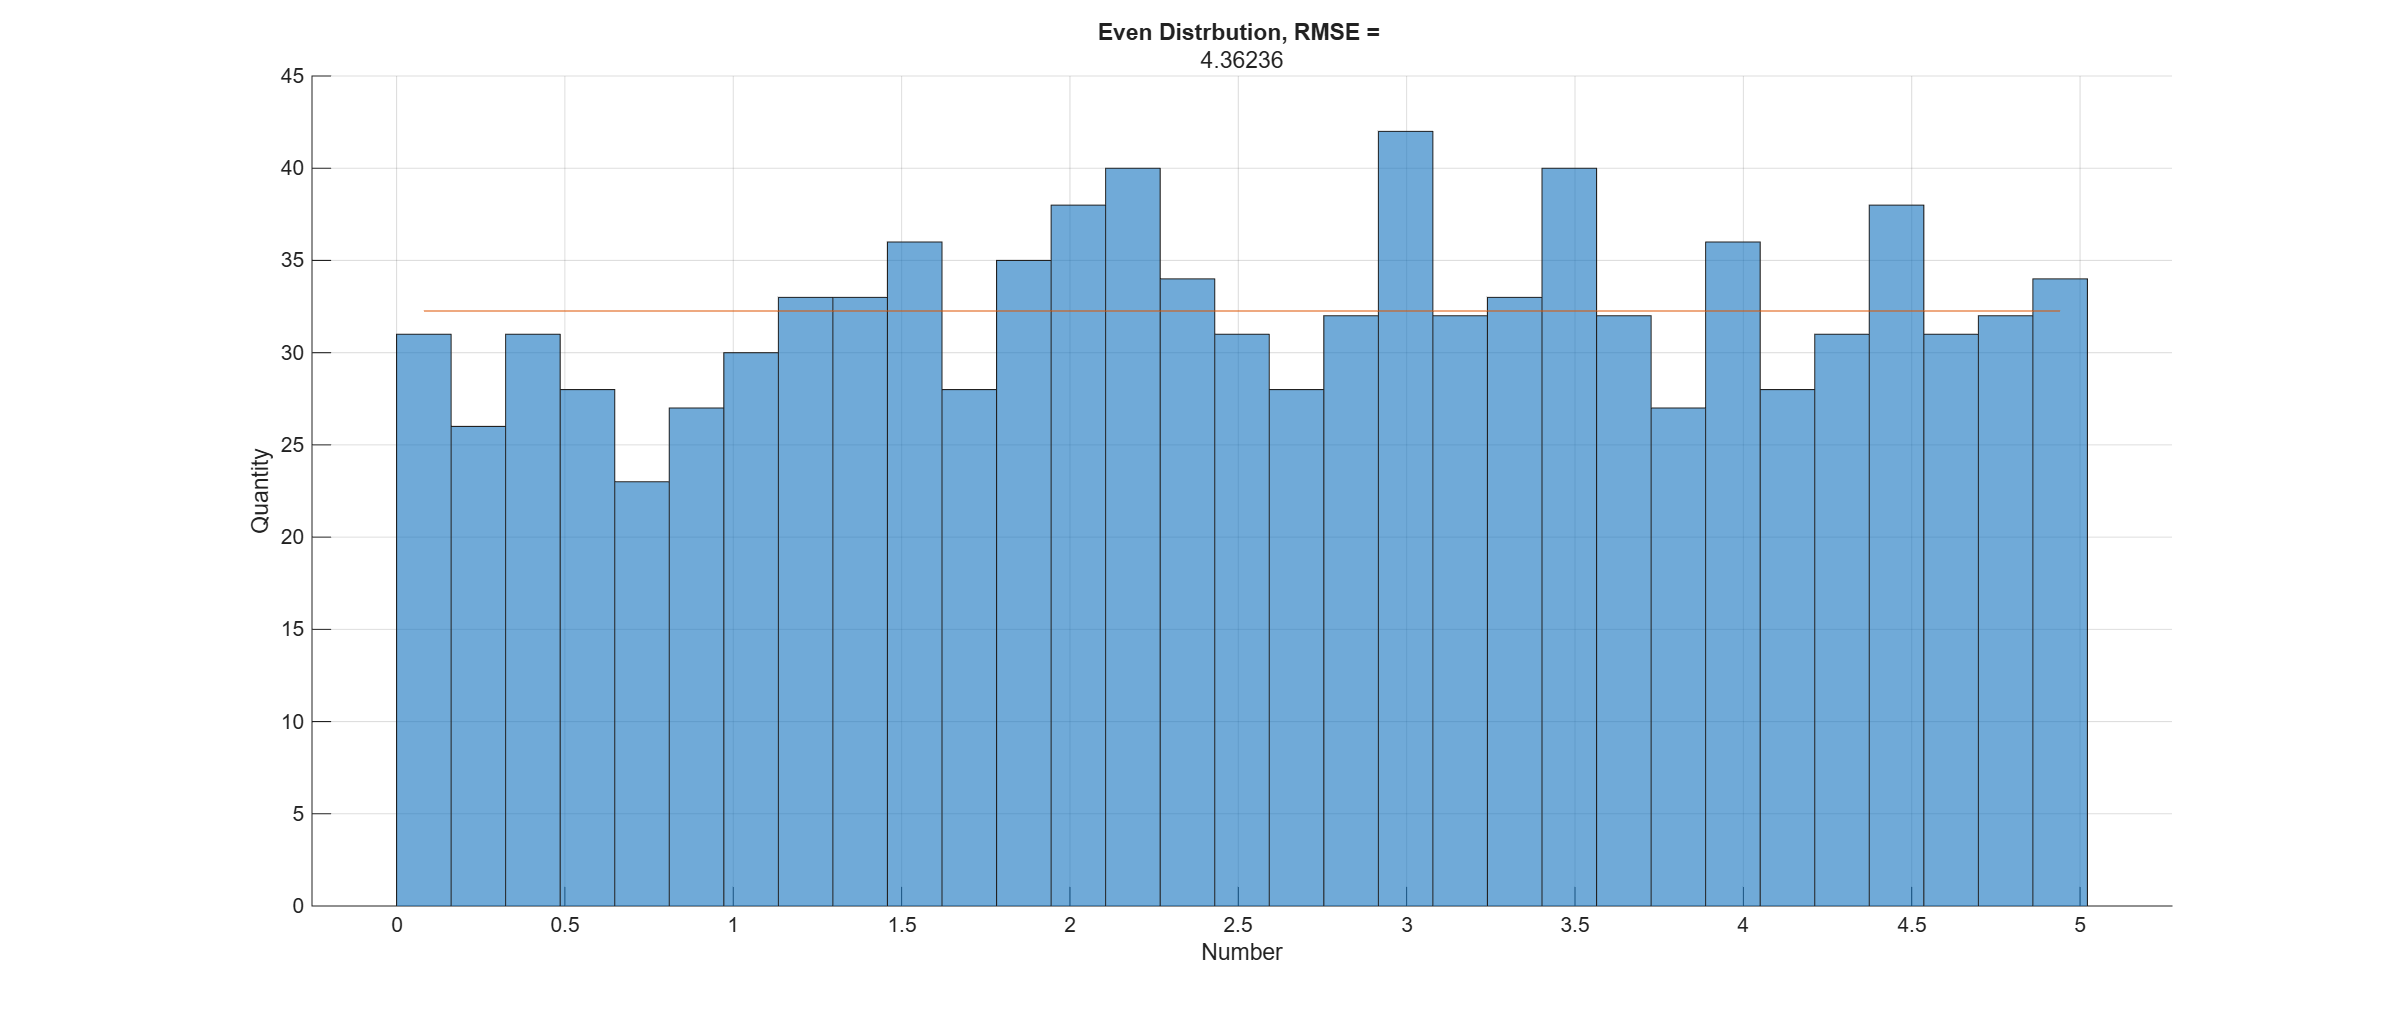
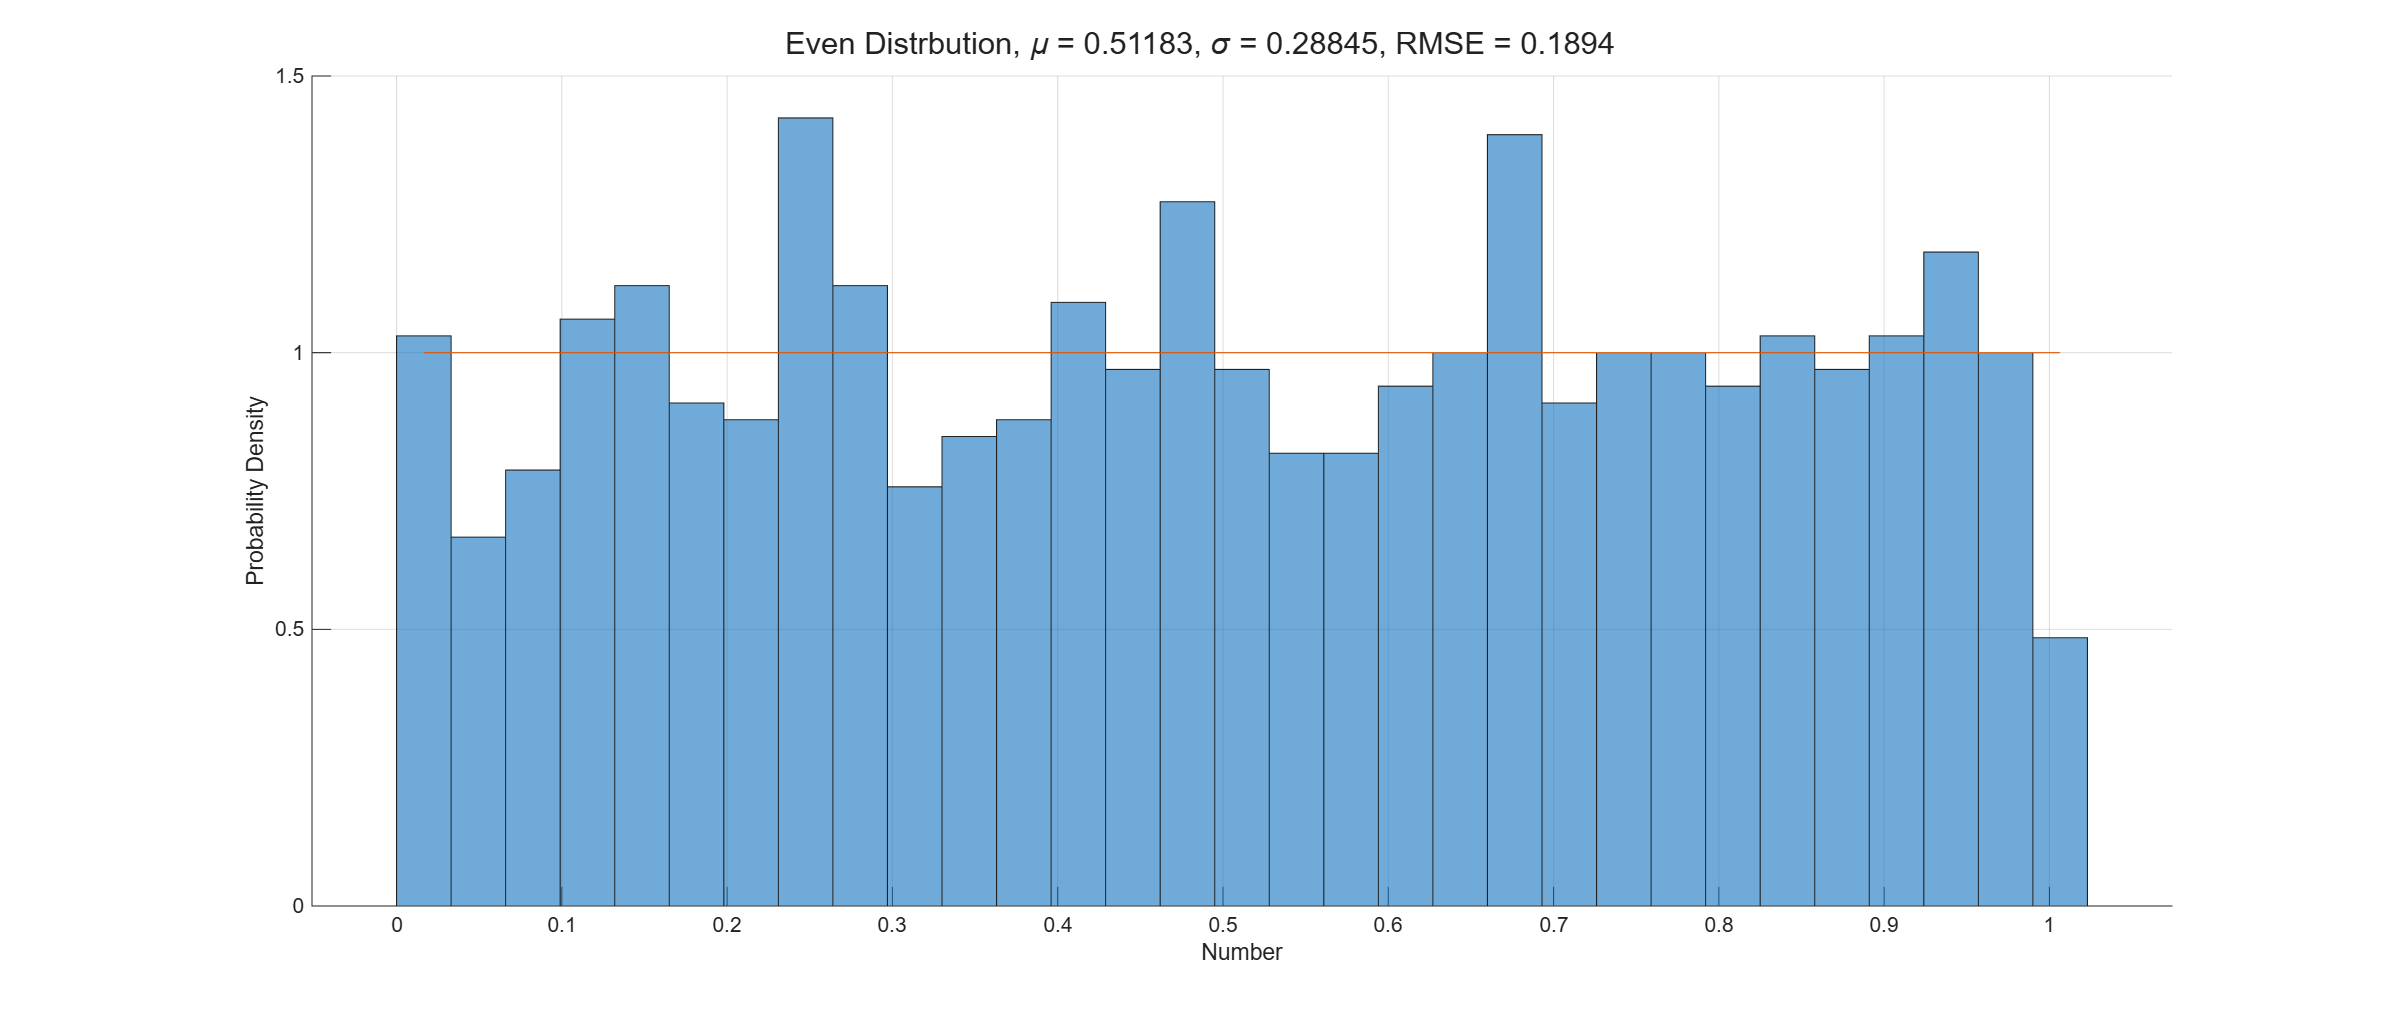
HW5 1.2.0

diff --git a/HW5/main.m b/HW5/main.m
@@ -3,52 +3,45 @@ close all;
 clear all;
 clc;
 
-%function
-function y = RMSE(x, g, N)
-    y = 0;
-    for i = 1 : N
-        y = y + ((x(i) - g(i)) ^ 2);
-    end
-    
-    y = y / N;
-    y = y ^ (1 / 2);
-end
-
 %config
 C = 1000;
 N = floor(C ^ (1 / 2));
-sigma = 5;
-mu = 0;
 
 %even distribution
+even_dis = rand(1, C);
+mu = mean(even_dis);
+sigma = std(even_dis);
+
 fig1 = figure;
 hold on;
-even_dis = mu + sigma * rand(1, C); 
-h = histogram(even_dis, N);
+h = histogram(even_dis, N, 'Normalization', 'pdf');
 filter = [1/2, 1/2];
 x = conv(h.BinEdges, filter, "valid");
-e = ones(1, length(x)) * (C / N);
+e = ones(1, length(x));
 plot(x, e);
 hold off;
 grid on;
 xlabel("Number");
-ylabel("Quantity");
-title("Even Distrbution, RMSE = ", RMSE(h.Values, e, N));
+ylabel("Probability Density");
+sgtitle("Even Distrbution, \mu = " + mu + ", \sigma = " + sigma + ", RMSE = " + rmse(h.Values, e));
 
 %gauss distribution
+gauss_dis = randn(1, C);
+mu = mean(gauss_dis);
+sigma = std(gauss_dis);
+
 fig2 = figure;
 hold on;
-gauss_dis = mu + sigma * randn(1, C);
-h = histogram(gauss_dis, N);
+h = histogram(gauss_dis, N, 'Normalization', 'pdf');
 filter = [1/2, 1/2];
 x = conv(h.BinEdges, filter, "valid");
-g = (C / (sigma * ((2 * pi) ^ (1 / 2)))) * exp(-((x - mu) .^ 2)/(2 * (sigma ^ 2)));
+g = (1 / (sigma * ((2 * pi) ^ (1 / 2)))) * exp(-((x - mu) .^ 2)/(2 * (sigma ^ 2)));
 plot(x, g);
 hold off;
 grid on;
 xlabel("Number");
-ylabel("Quantity");
-title("Gauss Distrbution, RMSE = ", RMSE(h.Values, g, N));
+ylabel("Probability Density");
+sgtitle("Gauss Distrbution, \mu = " + mu + ", \sigma = " + sigma + ", RMSE = " + rmse(h.Values, g));
 
 %save
 saveas(fig1, "even_distrbution.png");

diff --git a/HW5/prove.m b/HW5/prove.m
@@ -12,30 +12,27 @@ end
 %config
 A = 1;
 f0 = 50;
-fn = 10;
-r0 = 10;
-vr = 1;
-theta = 0.5 * pi;
-c = 3e8;
+fr = 10;
 
 %val
 f_sampling = 10 * f0;
 dt = 1 / f_sampling;
 t = -0.25 : dt : 0.25 -dt;
+x = 2 * pi * fr * t;
 N = length(t);
 f = (-N / 2 : N / 2 - 1) / N * f_sampling;
 
 %signal
-s = A * cos(2 * pi * f0 * t + 2 * pi * fn * t);%theta - ((4 * pi) / (c / f0)) * (r0 + vr * t)
+y_predict = 2 * sin(x);
+r = A * cos(2 * pi * f0 * t + x);
 os = 2 * sin(2 * pi * f0 * t);
-e = s .* os;
+e = r .* os;
 
 fc = 30;
 lpf = sinc(2.2 * fc * t) / N * f_sampling / 10;
 y_real = conv(e, lpf, "same");
-y_predict = 2 * sin(2 * pi * fn * t);
 
-S = abs(fftshift(fft(s))) / N;
+R = abs(fftshift(fft(r))) / N;
 OS = abs(fftshift(fft(os))) / N;
 E = abs(fftshift(fft(e))) / N;
 LPF = abs(fftshift(fft(lpf))) / N;
@@ -46,14 +43,14 @@ Y_PREDICT = abs(fftshift(fft(y_real))) / N;
 fig1 = figure;
 
 subplot(4, 2, 1);
-plot(t, s);
+plot(t, r);
 grid on;
 xlabel("t(s)");
 ylabel("Amp.(V)");
 title("s(t)");
 
 subplot(4, 2, 2);
-plot(f, S);
+plot(f, R);
 grid on;
 xlabel("f(Hz)");
 ylabel("|S(f)|");
